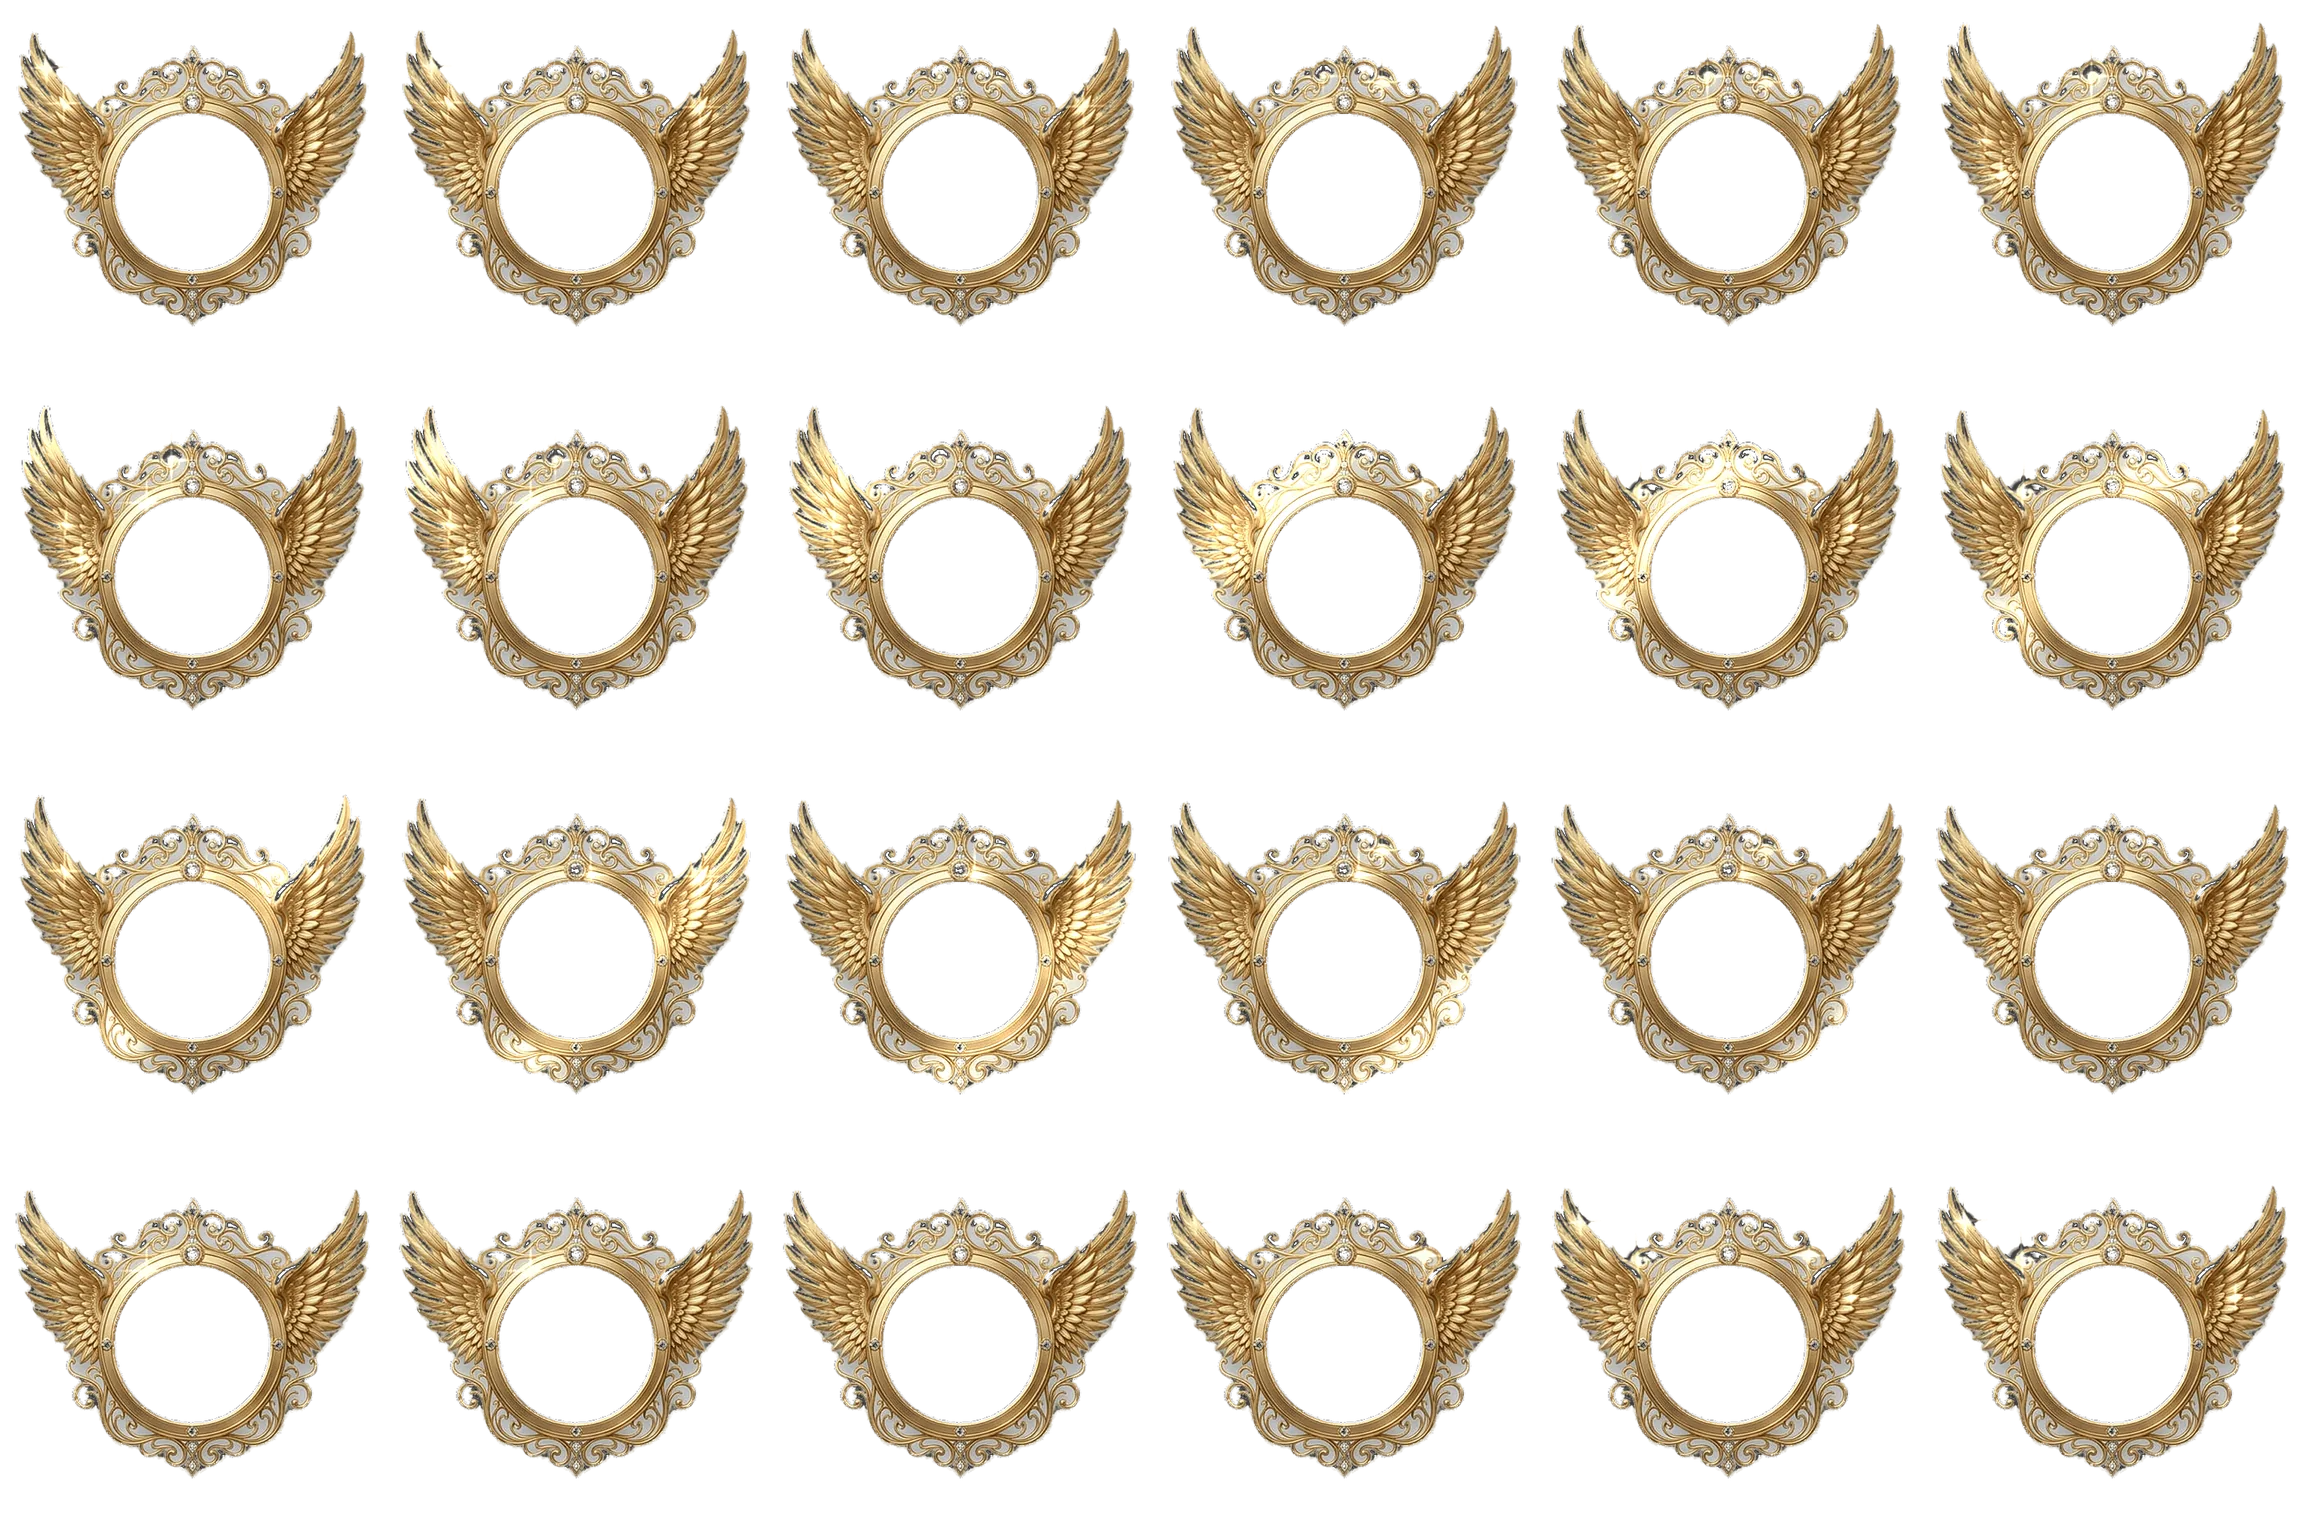
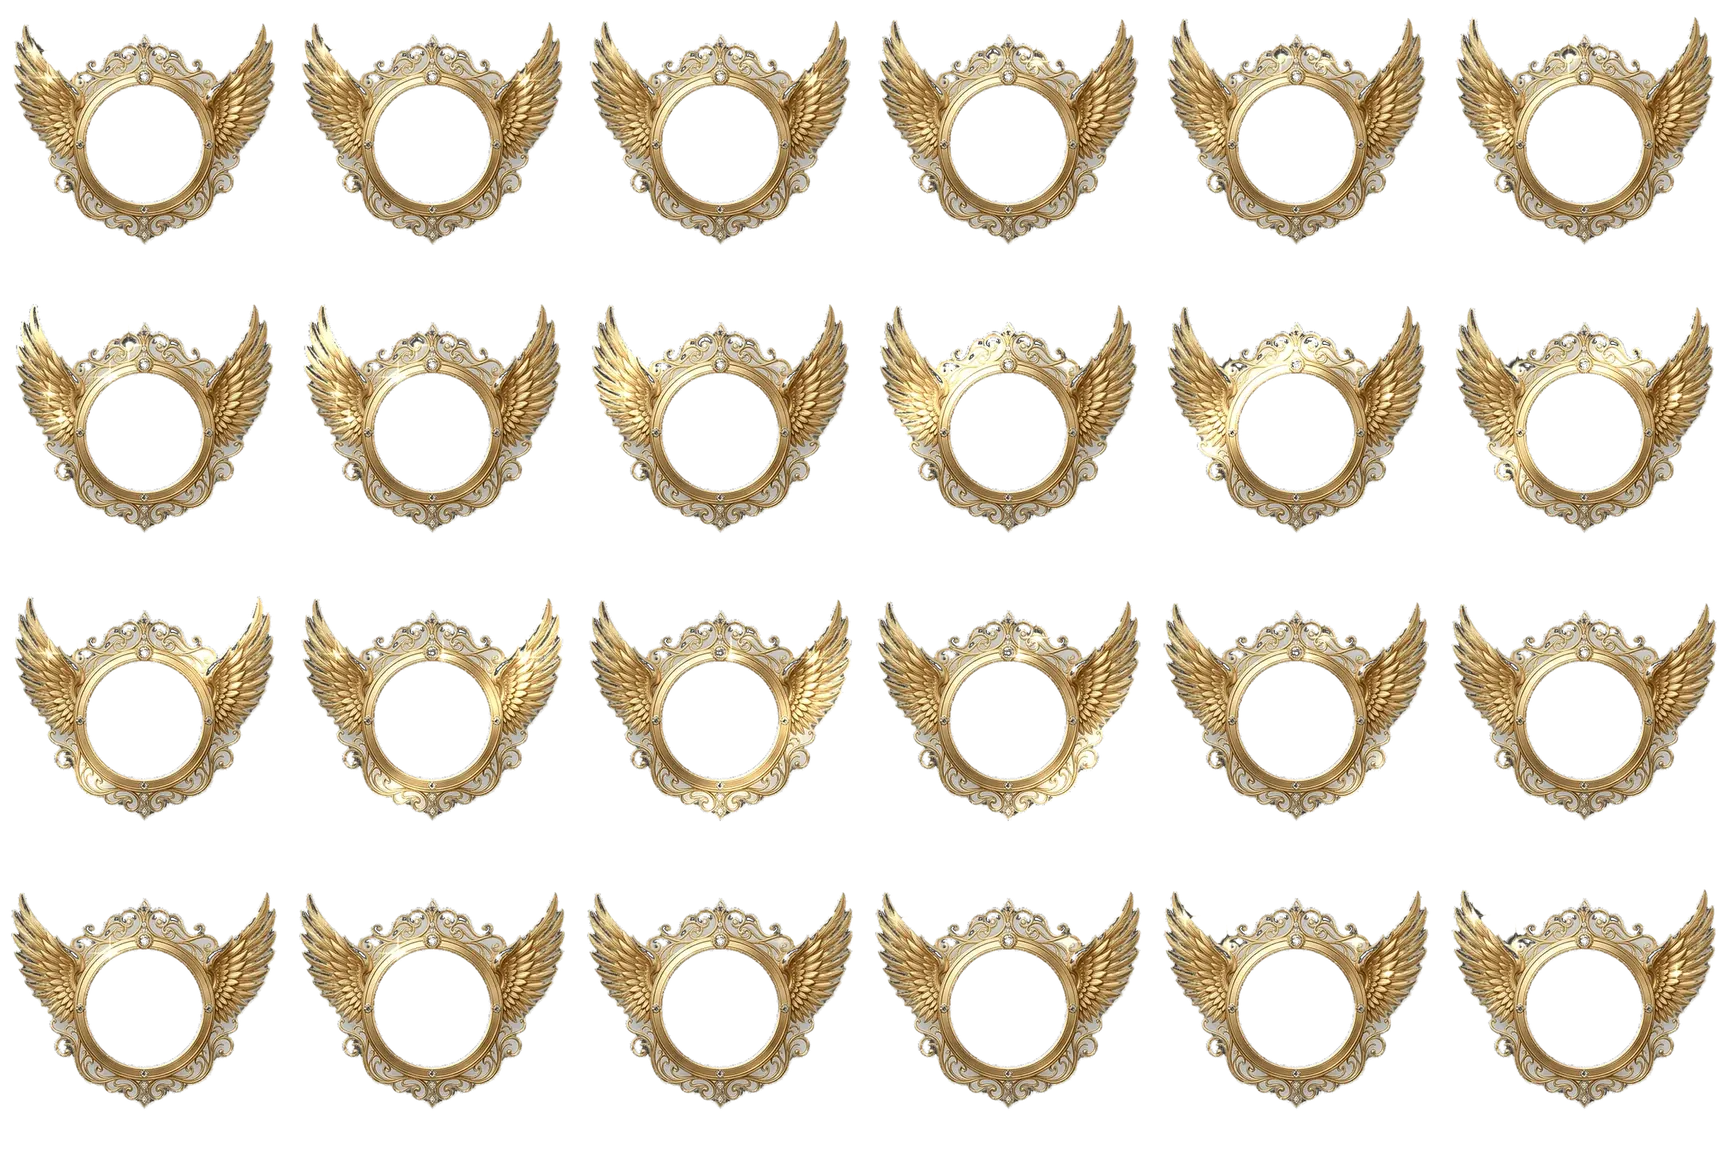
build(android): phone-only ABIs for preview APK, lighter frame sheets
- New config plugin android-architectures: TAVRIKO_ANDROID_ARCHS sets
  reactNativeArchitectures in gradle.properties. Only the eas.json preview
  (APK) profile sets it to armeabi-v7a,arm64-v8a; production AAB keeps all
  four ABIs.
- Animated frame sprite sheets: 6x4 tiles 384px -> 288px (per-tile Lanczos,
  WebP q80), 6.4 MB -> 3.9 MB.

diff --git a/client/plugins/android-architectures.js b/client/plugins/android-architectures.js
@@ -1,0 +1,40 @@
+// Expo config plugin: Android yerel kütüphanelerinin hangi işlemci mimarileri
+// (ABI) için derleneceğini TAVRIKO_ANDROID_ARCHS ortam değişkeniyle belirler.
+//
+// Yalnızca eas.json "preview" profili (dağıtılan test APK'sı) bu değişkeni
+// verir: arm64-v8a + armeabi-v7a → tüm gerçek telefonlar, x86/x86_64 (yalnızca
+// emülatör) çıkarılır ve APK ~77 MB küçülür. "production" (Play AAB) profili
+// değişkeni vermez → varsayılan 4 mimari korunur; Play her cihaza zaten
+// yalnızca kendi mimarisini indirir.
+
+const { withGradleProperties } = require('expo/config-plugins');
+
+const KNOWN = new Set(['armeabi-v7a', 'arm64-v8a', 'x86', 'x86_64']);
+const KEY = 'reactNativeArchitectures';
+
+function parseArchs(raw) {
+  if (!raw) return null;
+  const archs = String(raw)
+    .split(',')
+    .map((s) => s.trim())
+    .filter(Boolean);
+  const unknown = archs.filter((a) => !KNOWN.has(a));
+  if (unknown.length) {
+    throw new Error(`TAVRIKO_ANDROID_ARCHS geçersiz mimari: ${unknown.join(', ')}`);
+  }
+  return archs.length ? [...new Set(archs)] : null;
+}
+
+function withAndroidArchitectures(config) {
+  const archs = parseArchs(process.env.TAVRIKO_ANDROID_ARCHS);
+  if (!archs) return config;
+  return withGradleProperties(config, (cfg) => {
+    const props = cfg.modResults.filter((p) => !(p.type === 'property' && p.key === KEY));
+    props.push({ type: 'property', key: KEY, value: archs.join(',') });
+    cfg.modResults = props;
+    return cfg;
+  });
+}
+
+module.exports = withAndroidArchitectures;
+module.exports.parseArchs = parseArchs;

diff --git a/client/src/components/FrameArtwork.tsx b/client/src/components/FrameArtwork.tsx
@@ -6,7 +6,7 @@ import { useReducedMotion } from './DiscoveryArtwork';
 export type FrameArt = { src: ImageSourcePropType; inner: number; motion?: ImageSourcePropType };
 
 // Local WebP assets work offline and need no separate CDN deploy or animated image codec.
-// Posters are 512²; motion sheets are 6×4 tiles of 384², played at 80 ms per tile.
+// Posters are 512²; motion sheets are 6×4 tiles of 288² (1728×1152), played at 80 ms per tile.
 export const FRAME_ART: Record<string, FrameArt> = {
   frame_gold: {
     src: require('../../bundled/frames/royal_gold.webp'),
